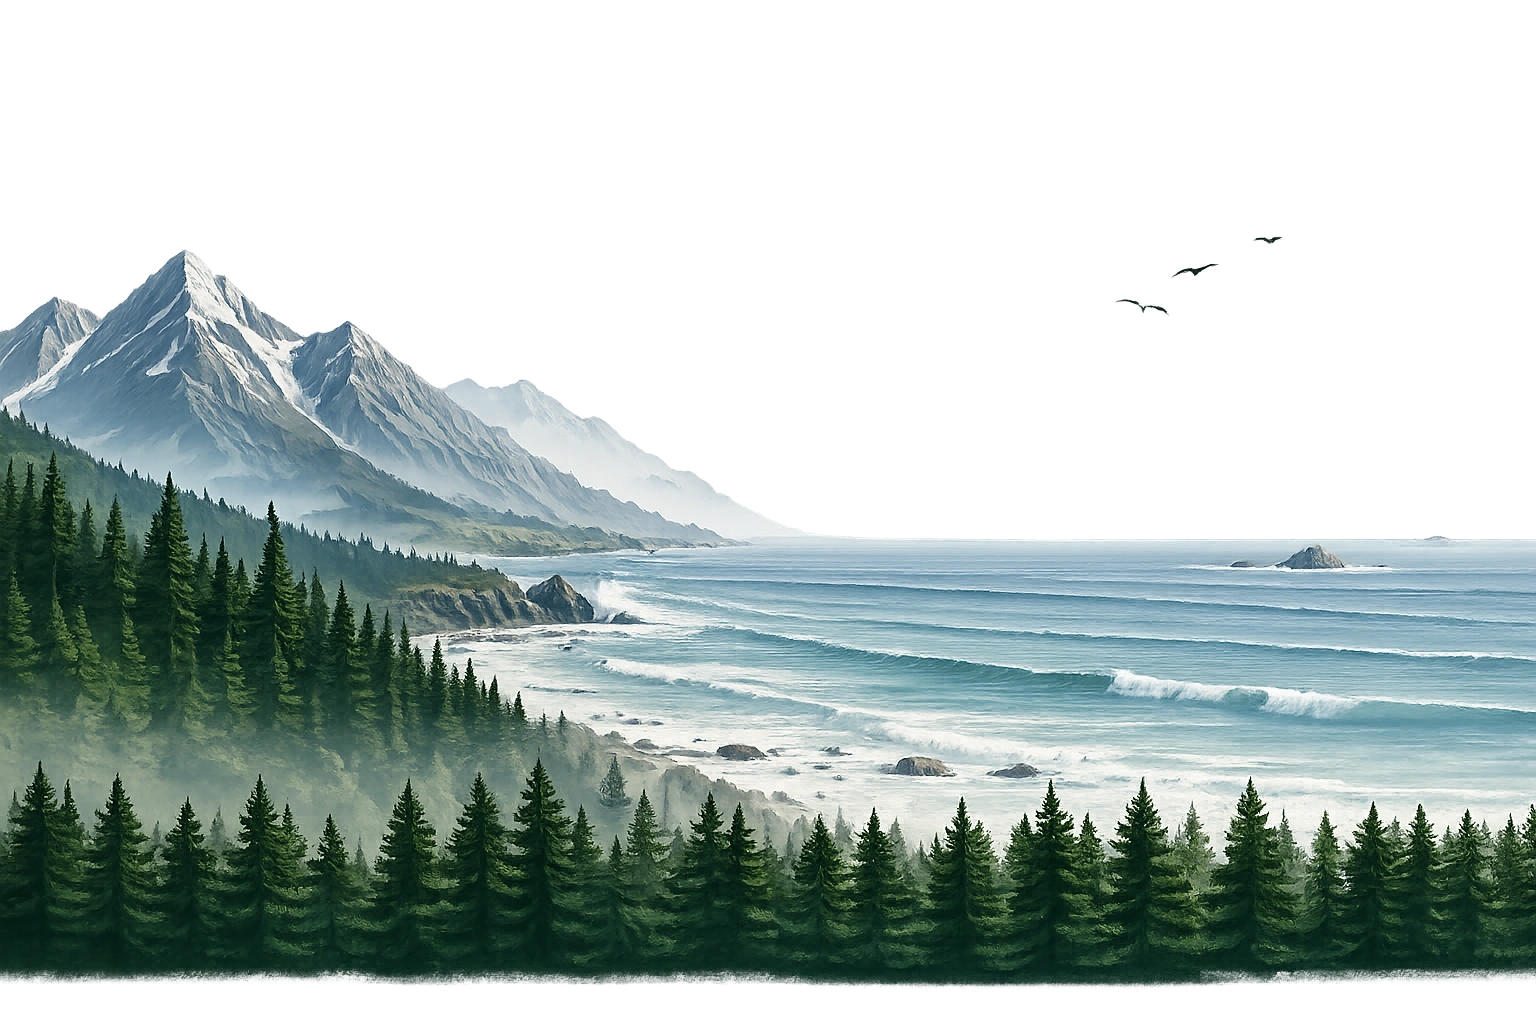
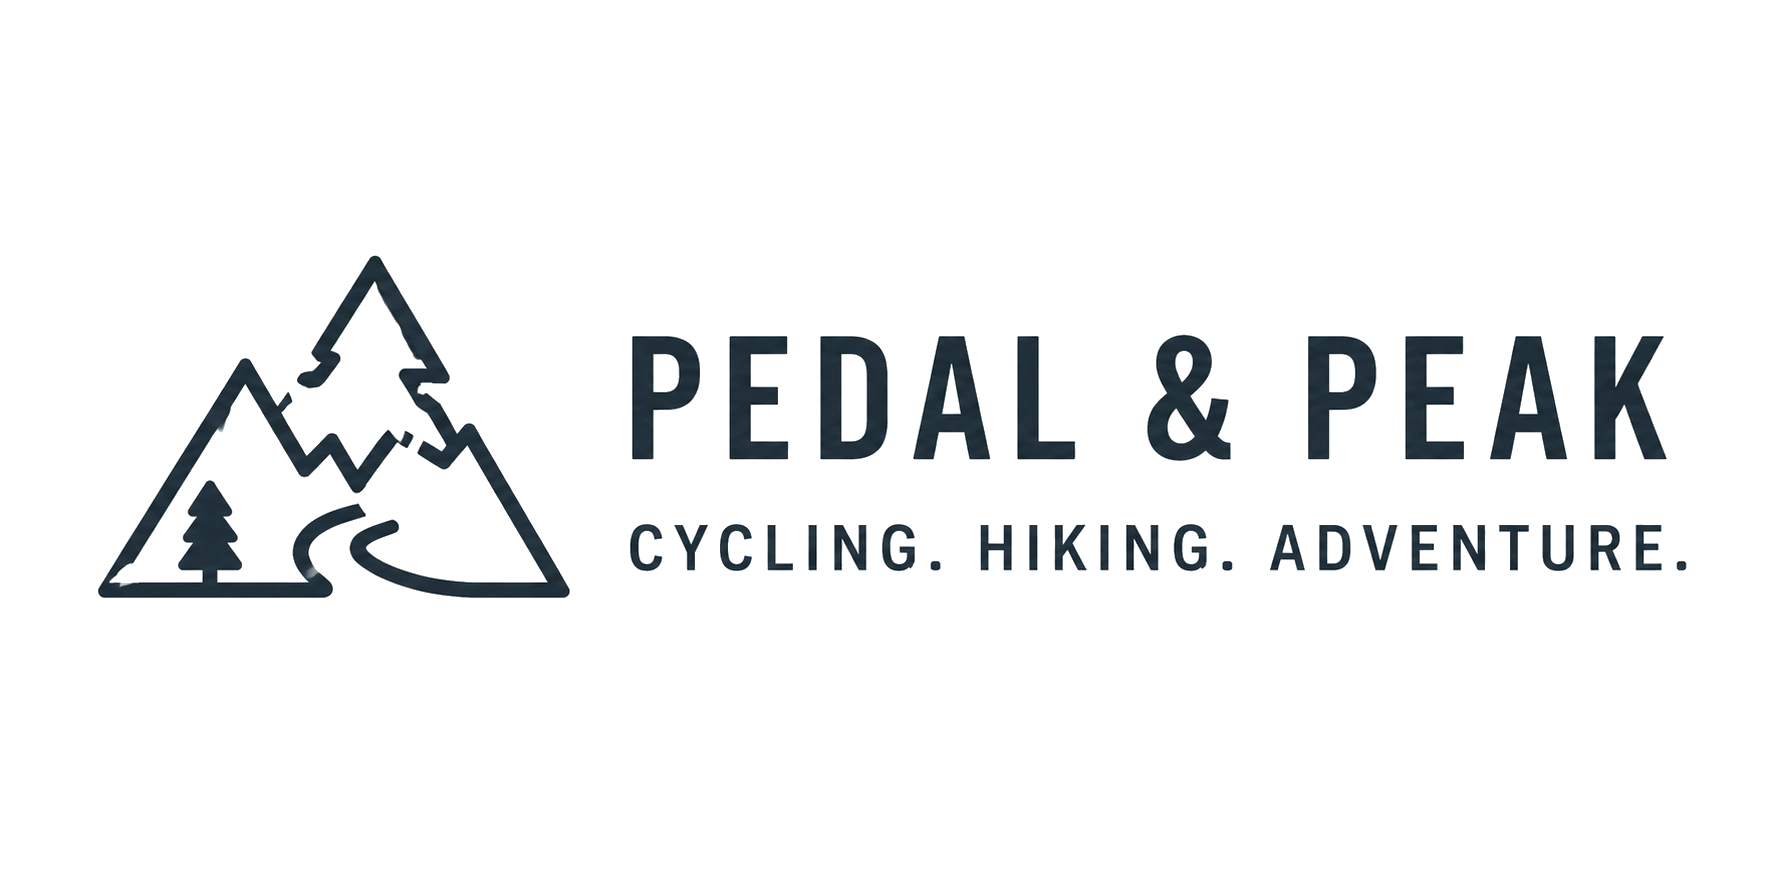
Restore shared parallax hero styling

diff --git a/style.css b/style.css
@@ -3,7 +3,6 @@
 
 :root {
   --header-height: 82px;
-  --section-bg: none;
   --page-bg-image: none;
   --flame: #E2572B;
   --dark: #1E1D30;
@@ -570,6 +569,7 @@ body.dark-mode .profile-card-socials a {
 
 /* Homepage hero: first screen with intro copy, rotating quote, theme-aware background, and stats. */
 .hero {
+  --hero-landscape-height: clamp(95px, 12vw, 175px);
   height: 100svh;
   background: transparent;
   position: relative;
@@ -591,7 +591,12 @@ body.dark-mode .profile-card-socials a {
 }
 
 .hero::after {
-  display: none;
+  inset: 0;
+  background:
+    url("assets/images/hero-vine-border.svg") left top / var(--hero-vine-width) 100% no-repeat,
+    url("assets/images/hero-vine-border.svg") right top / var(--hero-vine-width) 100% no-repeat;
+  filter: brightness(1.5) saturate(.72);
+  opacity: .32;
 }
 
 .hero-overlay {
@@ -611,7 +616,21 @@ body.dark-mode .profile-card-socials a {
   grid-template-rows: minmax(0, 1fr) auto auto;
   align-items: center;
   gap: clamp(4px, 1vh, 10px) clamp(18px, 3vw, 44px);
-  padding: calc(var(--header-height) + clamp(10px, 2vh, 22px)) 0 clamp(36px, 7vh, 78px);
+  padding: calc(var(--header-height) + clamp(10px, 2vh, 22px)) 0 calc(var(--hero-landscape-height) + clamp(18px, 3vh, 36px));
+}
+
+.hero-bottom-landscape {
+  position: absolute;
+  left: 0;
+  right: 0;
+  bottom: 0;
+  height: var(--hero-landscape-height);
+  background-image: url("assets/images/hero-bottom-visible-mountains-forest-strip-transparent.webp");
+  background-repeat: no-repeat;
+  background-position: bottom center;
+  background-size: 100% 100%;
+  pointer-events: none;
+  z-index: 1;
 }
 
 .hero-quote,
@@ -751,6 +770,10 @@ body.dark-mode .hero-overlay {
   background: linear-gradient(90deg, rgba(30,29,48,.72), rgba(30,29,48,.32), rgba(30,29,48,.60));
 }
 
+body.dark-mode .hero::after {
+  filter: drop-shadow(0 0 14px rgba(210, 237, 105, .10));
+}
+
 body.dark-mode .hero-lead,
 body.dark-mode .hero-quote cite,
 body.dark-mode .hero-quote-author {
@@ -877,27 +900,10 @@ body.dark-mode .stat-item strong {
 .contact-section {
   min-height: 100svh;
   padding: clamp(28px, 5vh, 64px) 0;
-  background-color: transparent;
-  background-image:
-    linear-gradient(rgba(248, 243, 239, .22), rgba(248, 243, 239, .22)),
-    var(--section-bg);
-  background-size: cover;
-  background-position: center;
-  background-attachment: fixed;
-  background-repeat: no-repeat;
+  background: transparent;
   border-top: 1px solid var(--section-divider);
   scroll-margin-top: 0;
   overflow: visible;
-}
-
-body.dark-mode .adventures-section,
-body.dark-mode .toolkit-section,
-body.dark-mode .map-section,
-body.dark-mode .info-section,
-body.dark-mode .contact-section {
-  background-image:
-    linear-gradient(rgba(30, 29, 48, .36), rgba(30, 29, 48, .36)),
-    var(--section-bg);
 }
 
 .adventures-section,
@@ -2446,7 +2452,7 @@ body.dark-mode .detail-chart-axis {
     min-height: 0;
     grid-template-rows: auto auto auto;
     align-content: center;
-    padding: calc(var(--header-height) + clamp(8px, 2vh, 18px)) 0 clamp(10px, 2vh, 22px);
+    padding: calc(var(--header-height) + clamp(8px, 2vh, 18px)) 0 calc(var(--hero-landscape-height) + clamp(14px, 2.5vh, 28px));
   }
 
   .toolkit-grid {
@@ -2591,6 +2597,7 @@ body.dark-mode .detail-chart-axis {
   }
 
   .hero {
+    --hero-landscape-height: 120px;
     height: 100svh;
     background: transparent;
     position: relative;
@@ -2598,12 +2605,16 @@ body.dark-mode .detail-chart-axis {
     transition: background 0.3s, color 0.3s;
   }
 
+  .hero-bottom-landscape {
+    background-size: cover;
+  }
+
   .hero-content {
     height: 100%;
     min-height: 0;
     align-content: center;
     gap: clamp(8px, 1.8vh, 14px);
-    padding: calc(var(--header-height) + 8px) 0 clamp(8px, 1.6vh, 14px);
+    padding: calc(var(--header-height) + 8px) 0 calc(var(--hero-landscape-height) + 12px);
   }
 
   .hero-copy,
@@ -2648,25 +2659,8 @@ body.dark-mode .detail-chart-axis {
   .contact-section {
     height: auto;
     min-height: 100svh;
-    background-color: transparent;
-    background-image:
-      linear-gradient(rgba(248, 243, 239, .22), rgba(248, 243, 239, .22)),
-      var(--section-bg);
-    background-size: cover;
-    background-position: center;
-    background-attachment: fixed;
-    background-repeat: no-repeat;
+    background: transparent;
     overflow: visible;
-  }
-
-  body.dark-mode .adventures-section,
-  body.dark-mode .toolkit-section,
-  body.dark-mode .map-section,
-  body.dark-mode .info-section,
-  body.dark-mode .contact-section {
-    background-image:
-      linear-gradient(rgba(30, 29, 48, .36), rgba(30, 29, 48, .36)),
-      var(--section-bg);
   }
 
   .card-grid,

diff --git a/script.js b/script.js
@@ -1259,19 +1259,18 @@ function initAdventureDetailPage() {
     });
 }
 
-// Applies a lazy-loaded background image to a page or section.
+// Applies a lazy-loaded background image to the page.
 function loadLazyBackground(element) {
   const imagePath = element.dataset.bg;
   if (!imagePath) return;
 
-  const targetProperty = element === document.body ? "--page-bg-image" : "--section-bg";
-  element.style.setProperty(targetProperty, `url("${imagePath}")`);
+  element.style.setProperty("--page-bg-image", `url("${imagePath}")`);
   element.classList.add("bg-loaded");
 }
 
-// Lazily loads section/page backgrounds, while loading priority backgrounds right away.
+// Lazily loads the page background, while loading priority backgrounds right away.
 function initLazySectionBackgrounds() {
-  const lazySections = document.querySelectorAll(".has-section-bg[data-bg], .has-page-bg[data-bg]");
+  const lazySections = document.querySelectorAll(".has-page-bg[data-bg]");
   if (!lazySections.length) return;
 
   lazySections.forEach(section => {
@@ -1300,44 +1299,7 @@ function initLazySectionBackgrounds() {
   });
 }
 
-function initMobileSectionParallax() {
-  const sections = Array.from(document.querySelectorAll(".has-section-bg"));
-  if (!sections.length) return;
-
-  const mobileQuery = window.matchMedia("(max-width: 700px)");
-  let ticking = false;
-
-  const update = () => {
-    ticking = false;
-
-    if (!mobileQuery.matches) {
-      sections.forEach(section => section.style.removeProperty("background-position"));
-      return;
-    }
-
-    const viewportHeight = window.innerHeight || 1;
-    sections.forEach(section => {
-      const rect = section.getBoundingClientRect();
-      const progress = (rect.top - viewportHeight / 2) / viewportHeight;
-      const offset = Math.max(-34, Math.min(34, progress * -42));
-      section.style.backgroundPosition = `center calc(50% + ${offset}px)`;
-    });
-  };
-
-  const requestUpdate = () => {
-    if (ticking) return;
-    ticking = true;
-    requestAnimationFrame(update);
-  };
-
-  update();
-  window.addEventListener("scroll", requestUpdate, { passive: true });
-  window.addEventListener("resize", requestUpdate, { passive: true });
-  mobileQuery.addEventListener?.("change", requestUpdate);
-}
-
 initLazySectionBackgrounds();
-initMobileSectionParallax();
 initAdventureDetailPage();
 
 // THEME TOGGLE LOGIC

diff --git a/index.html b/index.html
@@ -14,7 +14,7 @@
   <meta name="twitter:card" content="summary_large_image" />
   <link rel="icon" href="assets/pedal-peak-logo.png" type="image/png" />
   <link rel="stylesheet" href="https://unpkg.com/leaflet@1.9.4/dist/leaflet.css" />
-  <link rel="stylesheet" href="style.css?v=20260518-forest-strip-test" />
+  <link rel="stylesheet" href="style.css?v=20260520-single-bg" />
 </head>
 <body class="has-page-bg bg-priority" data-bg="assets/images/herobg.webp">
   <!-- Shared header placeholder: script.js replaces this with the fixed navigation bar used across the site. -->
@@ -49,9 +49,10 @@
           </div>
         </div>
       </div>
+      <div class="hero-bottom-landscape" aria-hidden="true"></div>
     </section>
 
-    <section class="toolkit-section has-section-bg bg-priority" id="Toolkit" data-bg="assets/images/bg.webp">
+    <section class="toolkit-section" id="Toolkit">
       <div class="container">
         <div class="section-title-row">
           <div>
@@ -64,7 +65,7 @@
     </section>
 
     <!-- Adventures section: this area shows ride and hike cards loaded by JavaScript from the data file. -->
-    <section class="adventures-section has-section-bg bg-priority" id="Adventures" data-bg="assets/images/adventuresbg.webp">
+    <section class="adventures-section" id="Adventures">
       <div class="container">
         <div class="section-title-row adventure-title-row">
           <div>
@@ -89,7 +90,7 @@
     </section>
 
     <!-- Testimonials section: this carousel shows one story card at a time. -->
-    <section class="info-section has-section-bg bg-priority" id="Testimonials" data-bg="assets/images/testimonialsbg.webp">
+    <section class="info-section" id="Testimonials">
       <div class="container">
         <div class="section-title-row">
           <div>
@@ -109,7 +110,7 @@
     </section>
 
     <!-- Contact section: a simple form where visitors can type their name, email, and message. -->
-    <section class="contact-section has-section-bg bg-priority" id="contact" data-bg="assets/images/contactbg.webp">
+    <section class="contact-section" id="contact">
       <div class="container contact-card">
         <div>
           <p class="eyebrow">Contact</p>
@@ -191,6 +192,6 @@
   </script>
 
   <!-- Script file: this connects the buttons, filters, cards, maps, quotes, stats, and contact form behavior. -->
-  <script src="script.js?v=[phone redacted]-mobile-parallax"></script>
+  <script src="script.js?v=20260520-single-bg"></script>
 </body>
 </html>

diff --git a/hikes.html b/hikes.html
@@ -14,7 +14,7 @@
   <meta name="twitter:card" content="summary_large_image" />
   <link rel="icon" href="assets/pedal-peak-logo.png" type="image/png" />
   <link rel="stylesheet" href="https://unpkg.com/leaflet@1.9.4/dist/leaflet.css" />
-  <link rel="stylesheet" href="style.css?v=20260518-forest-strip-test" />
+  <link rel="stylesheet" href="style.css?v=20260520-single-bg" />
 </head>
 <body class="has-page-bg bg-priority" data-bg="assets/images/herobg.webp">
   <div id="siteHeader"></div>
@@ -74,6 +74,6 @@
   }
   </script>
   <script src="https://unpkg.com/leaflet@1.9.4/dist/leaflet.js"></script>
-  <script src="script.js?v=[phone redacted]-mobile-parallax"></script>
+  <script src="script.js?v=20260520-single-bg"></script>
 </body>
 </html>

diff --git a/rides.html b/rides.html
@@ -14,7 +14,7 @@
   <meta name="twitter:card" content="summary_large_image" />
   <link rel="icon" href="assets/pedal-peak-logo.png" type="image/png" />
   <link rel="stylesheet" href="https://unpkg.com/leaflet@1.9.4/dist/leaflet.css" />
-  <link rel="stylesheet" href="style.css?v=20260518-forest-strip-test" />
+  <link rel="stylesheet" href="style.css?v=20260520-single-bg" />
 </head>
 <body class="has-page-bg bg-priority" data-bg="assets/images/herobg.webp">
   <div id="siteHeader"></div>
@@ -74,6 +74,6 @@
   }
   </script>
   <script src="https://unpkg.com/leaflet@1.9.4/dist/leaflet.js"></script>
-  <script src="script.js?v=[phone redacted]-mobile-parallax"></script>
+  <script src="script.js?v=20260520-single-bg"></script>
 </body>
 </html>

diff --git a/about.html b/about.html
@@ -13,7 +13,7 @@
   <meta property="og:image" content="https://bacanijesse.github.io/PePe/assets/pedal-peak-logo.png" />
   <meta name="twitter:card" content="summary" />
   <link rel="icon" href="assets/pedal-peak-logo.png" type="image/png" />
-  <link rel="stylesheet" href="style.css?v=20260518-forest-strip-test" />
+  <link rel="stylesheet" href="style.css?v=20260520-single-bg" />
 </head>
 <body class="has-page-bg bg-priority" data-bg="assets/images/herobg.webp">
   <!-- Shared header placeholder: script.js injects the same navigation used on every page. -->

diff --git a/privacy.html b/privacy.html
@@ -12,7 +12,7 @@
   <meta property="og:url" content="https://bacanijesse.github.io/PePe/privacy.html" />
   <meta name="twitter:card" content="summary" />
   <link rel="icon" href="assets/pedal-peak-logo.png" type="image/png" />
-  <link rel="stylesheet" href="style.css?v=20260518-forest-strip-test" />
+  <link rel="stylesheet" href="style.css?v=20260520-single-bg" />
 </head>
 <body class="has-page-bg bg-priority" data-bg="assets/images/herobg.webp">
   <!-- Shared header placeholder: script.js injects the same navigation used on every page. -->